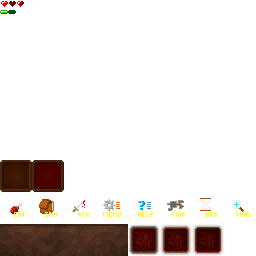
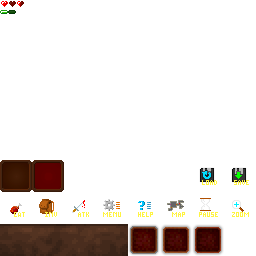
Fixed the bug & finished load&save mechanism

diff --git a/src/mightypork/rogue/screens/game/ScreenGame.java b/src/mightypork/rogue/screens/game/ScreenGame.java
@@ -14,6 +14,8 @@ import mightypork.gamecore.input.Keys;
 import mightypork.gamecore.logging.Log;
 import mightypork.gamecore.util.math.Calc;
 import mightypork.rogue.Config;
+import mightypork.rogue.GameStateManager.GameState;
+import mightypork.rogue.events.GameStateRequest;
 import mightypork.rogue.world.PlayerFacade;
 import mightypork.rogue.world.WorldProvider;
 import mightypork.rogue.world.events.WorldPauseRequest;
@@ -66,7 +68,7 @@ public class ScreenGame extends LayeredScreen {
 		@Override
 		public void execute()
 		{
-			hudLayer.mm.setVisible(!hudLayer.mm.isVisible());
+			hudLayer.miniMap.setVisible(!hudLayer.miniMap.isVisible());
 		}
 	};
 	
@@ -103,7 +105,7 @@ public class ScreenGame extends LayeredScreen {
 		}
 	};
 
-	public Action actionRestore = new Action() {
+	public Action actionLoad = new Action() {
 		
 		@Override
 		public void execute()
@@ -119,7 +121,17 @@ public class ScreenGame extends LayeredScreen {
 			}
 		}
 	};
-	
+
+	public Action actionMenu = new Action() {
+		
+		@Override
+		public void execute()
+		{
+			// TODO ask to save
+			
+			getEventBus().send(new GameStateRequest(GameState.MAIN_MENU));
+		}
+	};
 	/**
 	 * Set gui state (overlay)
 	 * 
@@ -175,7 +187,7 @@ public class ScreenGame extends LayeredScreen {
 		worldLayer.enable(true);
 		worldLayer.setVisible(true);
 		
-		// TODO temporary here ↓
+		// TODO temporary, remove
 		bindKey(new KeyStroke(Keys.N, Keys.MOD_CONTROL), new Runnable() {
 			
 			@Override
@@ -195,7 +207,9 @@ public class ScreenGame extends LayeredScreen {
 		bindKey(new KeyStroke(Keys.M), actionToggleMinimap);
 		bindKey(new KeyStroke(Keys.Z), actionToggleZoom);
 
-		bindKey(new KeyStroke(Keys.R, Keys.MOD_CONTROL), actionRestore);
+		bindKey(new KeyStroke(Keys.R, Keys.MOD_CONTROL), actionLoad);
+		bindKey(new KeyStroke(Keys.L, Keys.MOD_CONTROL), actionLoad);
+		
 		bindKey(new KeyStroke(Keys.S, Keys.MOD_CONTROL), actionSave);
 		
 		// add as actions - enableables.
@@ -208,7 +222,8 @@ public class ScreenGame extends LayeredScreen {
 		worldActions.add(actionToggleZoom);
 		
 		worldActions.add(actionSave);
-		worldActions.add(actionRestore);
+		worldActions.add(actionLoad);
+		worldActions.add(actionMenu);
 		
 		worldActions.enable(true);
 		

diff --git a/src/mightypork/rogue/screens/select_world/ScreenSelectWorld.java b/src/mightypork/rogue/screens/select_world/ScreenSelectWorld.java
@@ -35,6 +35,11 @@ public class ScreenSelectWorld extends LayeredScreen {
 	
 	class WorldsLayer extends ScreenLayer {
 		
+		private WorldSlot slot1;
+		private WorldSlot slot2;
+		private WorldSlot slot3;
+
+
 		public WorldsLayer(Screen screen)
 		{
 			super(screen);
@@ -61,18 +66,15 @@ public class ScreenSelectWorld extends LayeredScreen {
 			layout.put(tp = new TextPainter(Res.getFont("thick"), AlignX.CENTER, RGB.YELLOW, "Save slot:"), 0, 0, 1, 1);
 			tp.setPaddingHPerc(0, 20);
 			tp.setShadow(RGB.BLACK_50, tp.height().mul(0.6 / 8D).toVectXY());
+						
+			slot1 = new WorldSlot(root, Paths.SAVE_SLOT_1);
+			layout.put(slot1, 1, 0, 1, 1);
 			
+			slot2 = new WorldSlot(root, Paths.SAVE_SLOT_2);
+			layout.put(slot2, 2, 0, 1, 1);
 			
-			WorldSlot wsl;
-			
-			wsl = new WorldSlot(root, Paths.SAVE_SLOT_1);
-			layout.put(wsl, 1, 0, 1, 1);
-			
-			wsl = new WorldSlot(root, Paths.SAVE_SLOT_2);
-			layout.put(wsl, 2, 0, 1, 1);
-			
-			wsl = new WorldSlot(root, Paths.SAVE_SLOT_3);
-			layout.put(wsl, 3, 0, 1, 1);
+			slot3 = new WorldSlot(root, Paths.SAVE_SLOT_3);
+			layout.put(slot3, 3, 0, 1, 1);
 		}
 		
 		
@@ -82,5 +84,15 @@ public class ScreenSelectWorld extends LayeredScreen {
 			return 2;
 		}
 		
+	
+		@Override
+		protected void onScreenEnter()
+		{
+			super.onScreenEnter();
+			
+			slot1.refresh();
+			slot2.refresh();
+			slot3.refresh();
+		}
 	}
 }

diff --git a/src/mightypork/rogue/screens/game/HudLayer.java b/src/mightypork/rogue/screens/game/HudLayer.java
@@ -34,7 +34,7 @@ public class HudLayer extends ScreenLayer {
 		}
 	};
 	
-	protected Minimap mm;
+	protected Minimap miniMap;
 	
 	private final ScreenGame gameScreen;
 	
@@ -70,9 +70,9 @@ public class HudLayer extends ScreenLayer {
 	
 	private void buildMinimap()
 	{
-		mm = new Minimap();
-		mm.setRect(root.shrink(root.width().perc(5), root.height().perc(15)));
-		root.add(mm);
+		miniMap = new Minimap();
+		miniMap.setRect(root.shrink(root.width().perc(5), root.height().perc(15)));
+		root.add(miniMap);
 	}
 	
 	
@@ -130,12 +130,22 @@ public class HudLayer extends ScreenLayer {
 		// TODO actions
 		//nav.addLeft(new NavButton(Res.txq("nav.button.fg.options")));
 		//nav.addLeft(new NavButton(Res.txq("nav.button.fg.help")));
+
+		nav.addLeft(btn = new NavButton(Res.txq("nav.button.fg.menu")));
+		btn.setAction(gameScreen.actionMenu);
+		
+		nav.addLeft(btn = new NavButton(Res.txq("nav.button.fg.save")));
+		btn.setAction(gameScreen.actionSave);
+		
+		nav.addLeft(btn = new NavButton(Res.txq("nav.button.fg.load")));
+		btn.setAction(gameScreen.actionLoad);
 		
 		nav.addLeft(btn = new NavButton(Res.txq("nav.button.fg.map")));
 		btn.setAction(gameScreen.actionToggleMinimap);
 		
 		nav.addLeft(btn = new NavButton(Res.txq("nav.button.fg.magnify")));
 		btn.setAction(gameScreen.actionToggleZoom);
+		
 	}
 	
 	

diff --git a/src/mightypork/rogue/Res.java b/src/mightypork/rogue/Res.java
@@ -94,11 +94,13 @@ public final class Res {
 		textures.add("nav.button.fg.eat", grid.makeQuad(0, 6));
 		textures.add("nav.button.fg.inventory", grid.makeQuad(1, 6));
 		textures.add("nav.button.fg.attack", grid.makeQuad(2, 6));
-		textures.add("nav.button.fg.options", grid.makeQuad(3, 6));
+		textures.add("nav.button.fg.menu", grid.makeQuad(3, 6));
 		textures.add("nav.button.fg.help", grid.makeQuad(4, 6));
 		textures.add("nav.button.fg.map", grid.makeQuad(5, 6));
 		textures.add("nav.button.fg.pause", grid.makeQuad(6, 6));
 		textures.add("nav.button.fg.magnify", grid.makeQuad(7, 6));
+		textures.add("nav.button.fg.save", grid.makeQuad(7, 5));
+		textures.add("nav.button.fg.load", grid.makeQuad(6, 5));
 		
 		textures.add("inv.slot.base", grid.makeQuad(0, 5));
 		textures.add("inv.slot.selected", grid.makeQuad(1, 5));

diff --git a/src/mightypork/rogue/world/WorldProvider.java b/src/mightypork/rogue/world/WorldProvider.java
@@ -93,23 +93,16 @@ public class WorldProvider extends RootBusNode {
 		if (world == null) {
 			throw new IllegalStateException("Trying to save a NULL world.");
 		}
+		if (file == null) {
+			throw new IllegalStateException("Trying to save world to a NULL file.");
+		}
 		Ion.toFile(file, world);
 	}
 	
 	
 	public void saveWorld() throws IOException
 	{
-		if (world == null) {
-			throw new IllegalStateException("Trying to save a NULL world.");
-		}
-		
-		final File f = world.getSaveFile();
-		
-		if (f == null) {
-			throw new IllegalStateException("Trying to save world to a NULL file.");
-		}
-		
-		Ion.toFile(f, world);
+		saveWorld(world.getSaveFile());
 	}
 	
 	

diff --git a/src/mightypork/rogue/world/World.java b/src/mightypork/rogue/world/World.java
@@ -85,7 +85,17 @@ public class World implements DelegatingClient, BusAccess, IonObjBundled, Pausea
 		
 		playerEntity = levels.get(lvl).getEntity(eid);
 		if (playerEntity == null) {
-			throw new RuntimeException("Player entity not found in the world: " + eid + " on floor " + lvl);
+			
+			Log.e("Player entity not found in the world: " + eid + " on floor " + lvl);
+			
+			for(int i=0; i<levels.size(); i++) {
+				Entity ent = levels.get(i).getEntity(eid);
+				if(ent != null) {
+					Log.f3("Player entity was really on floor: "+i);
+				}
+			}
+			
+			throw new RuntimeException();
 		}
 	}
 	

diff --git a/src/mightypork/rogue/screens/game/InvLayer.java b/src/mightypork/rogue/screens/game/InvLayer.java
@@ -139,8 +139,16 @@ public class InvLayer extends ScreenLayer {
 		gl.put(txp2, pos, 0, 1, 1);
 		txp2.setPaddingHPerc(0, 25);
 		
-		bindKey(new KeyStroke(Keys.ESCAPE), screen.actionToggleInv);
-		// TODO needs some rewrite of keys system
+		bindKey(new KeyStroke(Keys.ESCAPE), new Runnable() {
+			
+			@Override
+			public void run()
+			{
+				if(isEnabled()) {
+					screen.actionToggleInv.run();
+				}
+			}
+		});
 		
 		bindKey(new KeyStroke(Keys.E), new Runnable() {
 			

diff --git a/src/mightypork/rogue/world/entity/impl/MonsterAi.java b/src/mightypork/rogue/world/entity/impl/MonsterAi.java
@@ -56,6 +56,12 @@ public class MonsterAi extends EntityModule implements EntityMoveListener {
 		{
 			if (!isIdle()) return;
 			
+			// annoyed by attacking.
+			if(entity.getLastAttackTime() < 0.5) {
+				lookForTarget();
+				return;
+			}
+			
 			if(entity.pos.isMoving()) return;
 			
 			if(Calc.rand.nextInt(10) == 0) {
@@ -176,7 +182,6 @@ public class MonsterAi extends EntityModule implements EntityMoveListener {
 				stepTowardsPrey(prey);
 			}
 		}
-		
 	}
 	
 	

diff --git a/src/mightypork/rogue/world/entity/modules/EntityModulePosition.java b/src/mightypork/rogue/world/entity/modules/EntityModulePosition.java
@@ -160,6 +160,8 @@ public class EntityModulePosition extends EntityModule {
 	
 	public void addStep(Step step)
 	{
+		if (path.isEmpty() && !canGoTo(step)) return;
+		
 		path.add(step);
 	}
 	
@@ -238,6 +240,12 @@ public class EntityModulePosition extends EntityModule {
 	public boolean hasPath()
 	{
 		return isMoving() || !path.isEmpty();
+	}
+	
+	
+	public boolean canGoTo(Step side)
+	{
+		return entity.getPathFinder().isAccessible(getCoord().add(side));
 	}
 	
 }

diff --git a/src/mightypork/rogue/world/PlayerData.java b/src/mightypork/rogue/world/PlayerData.java
@@ -33,9 +33,9 @@ public class PlayerData implements IonObjBundled {
 	@Override
 	public void load(IonBundle bundle) throws IOException
 	{
-		eid = bundle.get("eid", eid);
-		level = bundle.get("floor", level);
-		selectedWeapon = bundle.get("weapon", selectedWeapon);
+		eid = bundle.get("eid", -1);
+		level = bundle.get("floor", -1);
+		selectedWeapon = bundle.get("weapon", -1);
 		
 		inventory = bundle.get("inv", inventory);
 	}

diff --git a/src/mightypork/rogue/world/entity/impl/EntityBossRat.java b/src/mightypork/rogue/world/entity/impl/EntityBossRat.java
@@ -63,9 +63,8 @@ public class EntityBossRat extends Entity {
 	@Override
 	public void onKilled()
 	{
-		getWorld().getConsole().addMessage("YOU DEFEATED THE BOSS RAT");
-		getWorld().getConsole().addMessage("CTRL+M ... main menu");
-		getWorld().getConsole().addMessage("CTRL+N ... new game");
+		getWorld().getConsole().addMessage("~~~ YOU DEFEATED THE BOSS RAT ~~~");
+		getWorld().getConsole().addMessage("TODO: outro");
 	}
 	
 	

diff --git a/src/mightypork/rogue/world/entity/impl/EntityBrownRat.java b/src/mightypork/rogue/world/entity/impl/EntityBrownRat.java
@@ -30,8 +30,8 @@ public class EntityBrownRat extends Entity {
 		
 		setDespawnDelay(1);
 		
-		health.setHealthMax(20);
-		health.setHealth(Calc.randInt(12, 20)); // tougher to kill
+		health.setHealthMax(16);
+		health.setHealth(Calc.randInt(10, 16)); // tougher to kill
 		health.setHitCooldownTime(0.35); // a bit longer than gray rat
 	}
 	
